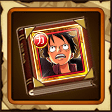
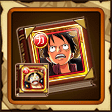
new png jp

diff --git a/index.html b/index.html
@@ -1824,7 +1824,7 @@
         <div align="center" style="position: absolute; left: 340px; top: 20501px; width: 113px; height: 18px; font-family: &quot;Arial Black&quot;, Gadget, sans-serif; font-size: 18px; color: white; text-shadow: 1px 1px black, -1px -1px black, -1px 1px black, 1px -1px black;">No.904</div>
         <div style="position: absolute; left: 453px; top: 20416px"><img src="png/jp/character_1015_t1.png" data-title="クライガナ島をさすらう剣士" data-name="ロロノア・ゾロ" data-skill="png/jp/motion_1015_zoro_skill_name.png" data-portrait="png/jp/character_1015_c1.png" class="thumbnail"></div>
         <div align="center" style="position: absolute; left: 453px; top: 20501px; width: 113px; height: 18px; font-family: &quot;Arial Black&quot;, Gadget, sans-serif; font-size: 18px; color: white; text-shadow: 1px 1px black, -1px -1px black, -1px 1px black, 1px -1px black;">No.905</div>
-        <div style="position: absolute; left: 1px; top: 20529px"><img src="png/jp/character_1016_t1.png" data-title="世界最強剣士の門弟" data-name="ロロノア・ゾロ" data-skill="png/tw/character_9999_t1.png" data-portrait="png/jp/character_1016_c1.png" class="thumbnail"></div>
+        <div style="position: absolute; left: 1px; top: 20529px"><img src="png/jp/character_1016_t1.png" data-title="世界最強剣士の門弟" data-name="ロロノア・ゾロ" data-skill="png/jp/motion_1015_zoro_skill_name.png" data-portrait="png/jp/character_1016_c1.png" class="thumbnail"></div>
         <div align="center" style="position: absolute; left: 1px; top: 20614px; width: 113px; height: 18px; font-family: &quot;Arial Black&quot;, Gadget, sans-serif; font-size: 18px; color: white; text-shadow: 1px 1px black, -1px -1px black, -1px 1px black, 1px -1px black;">No.906</div>
         <div style="position: absolute; left: 114px; top: 20529px"><img src="png/jp/character_1017_t1.png" data-title="テキーラウルフの収監者" data-name="ニコ・ロビン" data-skill="png/jp/motion_1017_robin_skill_name.png" data-portrait="png/jp/character_1017_c1.png" class="thumbnail"></div>
         <div align="center" style="position: absolute; left: 114px; top: 20614px; width: 113px; height: 18px; font-family: &quot;Arial Black&quot;, Gadget, sans-serif; font-size: 18px; color: white; text-shadow: 1px 1px black, -1px -1px black, -1px 1px black, 1px -1px black;">No.907</div>
@@ -1934,9 +1934,9 @@
         <div align="center" style="position: absolute; left: 340px; top: 21744px; width: 113px; height: 18px; font-family: &quot;Arial Black&quot;, Gadget, sans-serif; font-size: 18px; color: white; text-shadow: 1px 1px black, -1px -1px black, -1px 1px black, 1px -1px black;">No.959</div>
         <div style="position: absolute; left: 453px; top: 21659px"><img src="png/tw/character_none.png" data-title="" data-name="" data-skill="png/tw/character_9999_t1.png" data-portrait="png/tw/character_9999_t1.png" class="thumbnail"></div>
         <div align="center" style="position: absolute; left: 453px; top: 21744px; width: 113px; height: 18px; font-family: &quot;Arial Black&quot;, Gadget, sans-serif; font-size: 18px; color: white; text-shadow: 1px 1px black, -1px -1px black, -1px 1px black, 1px -1px black;">No.960</div>
-        <div style="position: absolute; left: 1px; top: 21772px"><img src="png/jp/character_1197_t1.png" data-title="赤のボディガード" data-name="豪腕のガンマン" data-skill="png/tw/character_9999_t1.png" data-portrait="png/jp/character_1197_c1.png" class="thumbnail"></div>
+        <div style="position: absolute; left: 1px; top: 21772px"><img src="png/jp/character_1197_t1.png" data-title="赤のボディガード" data-name="豪腕のガンマン" data-skill="png/jp/skill_name_8153.png" data-portrait="png/jp/character_1197_c1.png" class="thumbnail"></div>
         <div align="center" style="position: absolute; left: 1px; top: 21857px; width: 113px; height: 18px; font-family: &quot;Arial Black&quot;, Gadget, sans-serif; font-size: 18px; color: white; text-shadow: 1px 1px black, -1px -1px black, -1px 1px black, 1px -1px black;">No.961</div>
-        <div style="position: absolute; left: 114px; top: 21772px"><img src="png/jp/character_1198_t1.png" data-title="黄のボディガード" data-name="強心のガンマン" data-skill="png/tw/character_9999_t1.png" data-portrait="png/jp/character_1198_c1.png" class="thumbnail"></div>
+        <div style="position: absolute; left: 114px; top: 21772px"><img src="png/jp/character_1198_t1.png" data-title="黄のボディガード" data-name="強心のガンマン" data-skill="png/jp/skill_name_8154.png" data-portrait="png/jp/character_1198_c1.png" class="thumbnail"></div>
         <div align="center" style="position: absolute; left: 114px; top: 21857px; width: 113px; height: 18px; font-family: &quot;Arial Black&quot;, Gadget, sans-serif; font-size: 18px; color: white; text-shadow: 1px 1px black, -1px -1px black, -1px 1px black, 1px -1px black;">No.962</div>
         <div style="position: absolute; left: 227px; top: 21772px"><img src="png/tw/character_none.png" data-title="" data-name="" data-skill="png/tw/character_9999_t1.png" data-portrait="png/tw/character_9999_t1.png" class="thumbnail"></div>
         <div align="center" style="position: absolute; left: 227px; top: 21857px; width: 113px; height: 18px; font-family: &quot;Arial Black&quot;, Gadget, sans-serif; font-size: 18px; color: white; text-shadow: 1px 1px black, -1px -1px black, -1px 1px black, 1px -1px black;">No.963</div>
@@ -2200,7 +2200,7 @@
         <div align="center" style="position: absolute; left: 114px; top: 24795px; width: 113px; height: 18px; font-family: &quot;Arial Black&quot;, Gadget, sans-serif; font-size: 18px; color: white; text-shadow: 1px 1px black, -1px -1px black, -1px 1px black, 1px -1px black;">No.1092</div>
         <div style="position: absolute; left: 227px; top: 24710px"><img src="png/tw/character_none.png" data-title="" data-name="" data-skill="png/tw/character_9999_t1.png" data-portrait="png/tw/character_9999_t1.png" class="thumbnail"></div>
         <div align="center" style="position: absolute; left: 227px; top: 24795px; width: 113px; height: 18px; font-family: &quot;Arial Black&quot;, Gadget, sans-serif; font-size: 18px; color: white; text-shadow: 1px 1px black, -1px -1px black, -1px 1px black, 1px -1px black;">No.1093</div>
-        <div style="position: absolute; left: 340px; top: 24710px"><img src="png/jp/character_1238_t1.png" data-title="" data-name="Dr.インディゴ" data-skill="png/tw/character_9999_t1.png" data-portrait="png/jp/character_1238_c1.png" class="thumbnail"></div>
+        <div style="position: absolute; left: 340px; top: 24710px"><img src="png/jp/character_1238_t1.png" data-title="" data-name="Dr.インディゴ" data-skill="png/jp/motion_1238_Dr.Indigo_name.png" data-portrait="png/jp/character_1238_c1.png" class="thumbnail"></div>
         <div align="center" style="position: absolute; left: 340px; top: 24795px; width: 113px; height: 18px; font-family: &quot;Arial Black&quot;, Gadget, sans-serif; font-size: 18px; color: white; text-shadow: 1px 1px black, -1px -1px black, -1px 1px black, 1px -1px black;">No.1094</div>
         <div style="position: absolute; left: 453px; top: 24710px"><img src="png/tw/character_none.png" data-title="" data-name="" data-skill="png/tw/character_9999_t1.png" data-portrait="png/tw/character_9999_t1.png" class="thumbnail"></div>
         <div align="center" style="position: absolute; left: 453px; top: 24795px; width: 113px; height: 18px; font-family: &quot;Arial Black&quot;, Gadget, sans-serif; font-size: 18px; color: white; text-shadow: 1px 1px black, -1px -1px black, -1px 1px black, 1px -1px black;">No.1095</div>
@@ -2226,7 +2226,7 @@
         <div align="center" style="position: absolute; left: 453px; top: 25021px; width: 113px; height: 18px; font-family: &quot;Arial Black&quot;, Gadget, sans-serif; font-size: 18px; color: white; text-shadow: 1px 1px black, -1px -1px black, -1px 1px black, 1px -1px black;">No.1105</div>
         <div style="position: absolute; left: 1px; top: 25049px"><img src="png/tw/character_none.png" data-title="" data-name="" data-skill="png/tw/character_9999_t1.png" data-portrait="png/tw/character_9999_t1.png" class="thumbnail"></div>
         <div align="center" style="position: absolute; left: 1px; top: 25134px; width: 113px; height: 18px; font-family: &quot;Arial Black&quot;, Gadget, sans-serif; font-size: 18px; color: white; text-shadow: 1px 1px black, -1px -1px black, -1px 1px black, 1px -1px black;">No.1106</div>
-        <div style="position: absolute; left: 114px; top: 25049px"><img src="png/jp/character_1236_t1.png" data-title="" data-name="金獅子のシキ" data-skill="png/tw/character_9999_t1.png" data-portrait="png/jp/character_1236_c1.png" class="thumbnail"></div>
+        <div style="position: absolute; left: 114px; top: 25049px"><img src="png/jp/character_1236_t1.png" data-title="" data-name="金獅子のシキ" data-skill="png/jp/motion_1236_shiki_skill_name.png" data-portrait="png/jp/character_1236_c1.png" class="thumbnail"></div>
         <div align="center" style="position: absolute; left: 114px; top: 25134px; width: 113px; height: 18px; font-family: &quot;Arial Black&quot;, Gadget, sans-serif; font-size: 18px; color: white; text-shadow: 1px 1px black, -1px -1px black, -1px 1px black, 1px -1px black;">No.1107</div>
         <div style="position: absolute; left: 227px; top: 25049px"><img src="png/tw/character_none.png" data-title="" data-name="" data-skill="png/tw/character_9999_t1.png" data-portrait="png/tw/character_9999_t1.png" class="thumbnail"></div>
         <div align="center" style="position: absolute; left: 227px; top: 25134px; width: 113px; height: 18px; font-family: &quot;Arial Black&quot;, Gadget, sans-serif; font-size: 18px; color: white; text-shadow: 1px 1px black, -1px -1px black, -1px 1px black, 1px -1px black;">No.1108</div>
